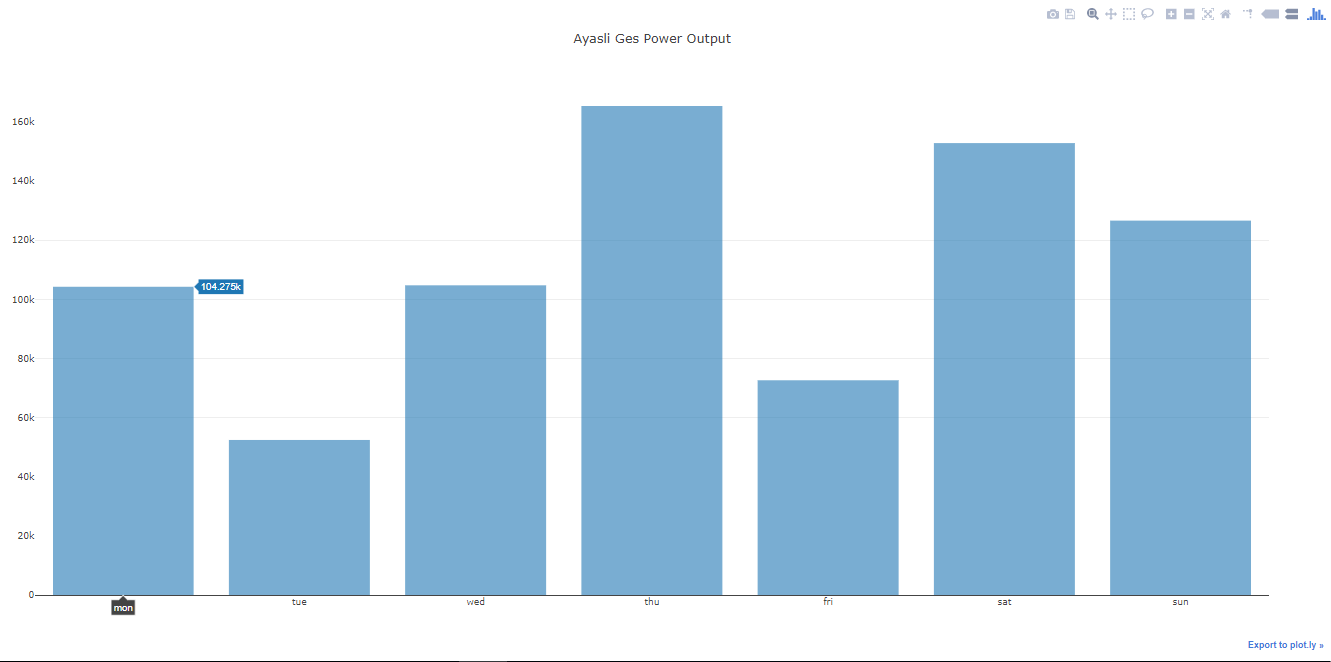
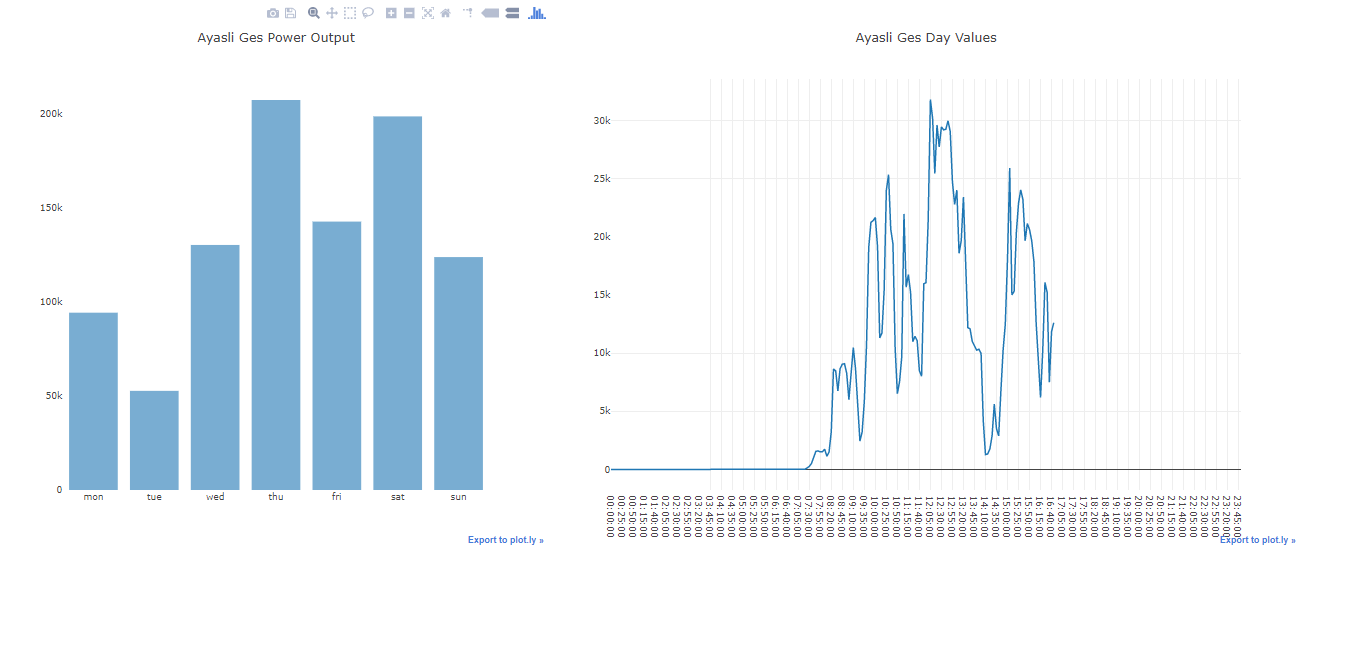
commit hard

diff --git a/templates/index.html b/templates/index.html
@@ -1,7 +1,10 @@
 <html>
 <body>
-<div>
+<div style="position: absolute; top:20 px; left:20px; width: 728px; height: 728px;">
 {{ div_placeholder }}
+</div>
+<div style="position: absolute; top:20 px; left:750px ; width: 1000px; height: 728px;">
+{{ div_placeholder2 }}
 </div>
 </body>
 </html>

diff --git a/app.py b/app.py
@@ -10,10 +10,7 @@ app = Flask(__name__)
 @app.route('/', methods=['GET', 'POST'])
 def index():
     data = requests.post('http://144.122.167.229/getjp', data = 'token=;preval=666;postval=666;{"771":null}')
-    date_data = requests.post('http://144.122.167.229/getjp', data='token=;preval=666;postval=666;{"701":null}')
-    days_data =requests.post('http://144.122.167.229/getjp', data='token:;{"867":{"0":null}}')
     a = data.json()
-    b= days_data.json()
     mon = int(a['771'][0][1])
     tue = int(a['771'][1][1])
     wed = int(a['771'][2][1])
@@ -21,23 +18,13 @@ def index():
     fri = int(a['771'][4][1])
     sat = int(a['771'][5][1])
     sun = int(a['771'][6][1])
-    y=[]
-    x=[]
-    for i in range (0,287):
-        y.append(b['867']['0'][i][1][2])
-    for i in range (0,287):
-        x.append(b['867']['0'][i][0])
     layout = go.Layout(title='Ayasli Ges Power Output')
     trace0 = go.Bar(x=['mon', 'tue', 'wed', 'thu', 'fri', 'sat', 'sun'], y=[mon, tue, wed, thu, fri, sat, sun],opacity=0.6 )
-    trace1 = go.Scatter(y=y, x=x)
     data = [trace0]
-    data2= [trace1]
     fig = go.Figure(data=data, layout=layout)
     my_plot_div = plot(fig, output_type='div')
-    layout2 = go.Layout(title='Ayasli Ges Day Values')
-    fig2 =  go.Figure(data=data2, layout= layout2)
-    my_plot_div2 = plot(fig2, output_type='div')
-    return render_template('index.html',div_placeholder= Markup(my_plot_div), div_placeholder2= Markup(my_plot_div2))
+
+    return render_template('index.html',div_placeholder= Markup(my_plot_div))
 
 if __name__ == '__main__':
 	app.run(port=5000, debug=True)
